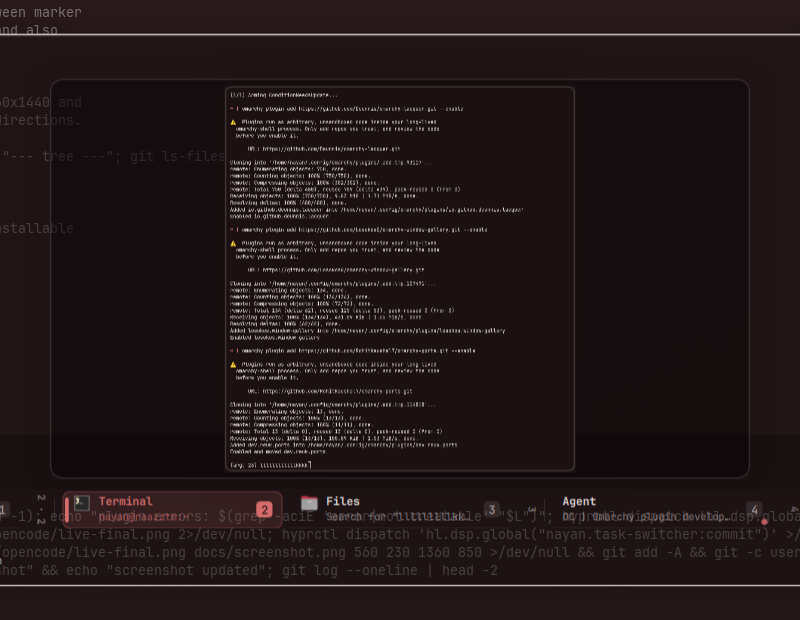
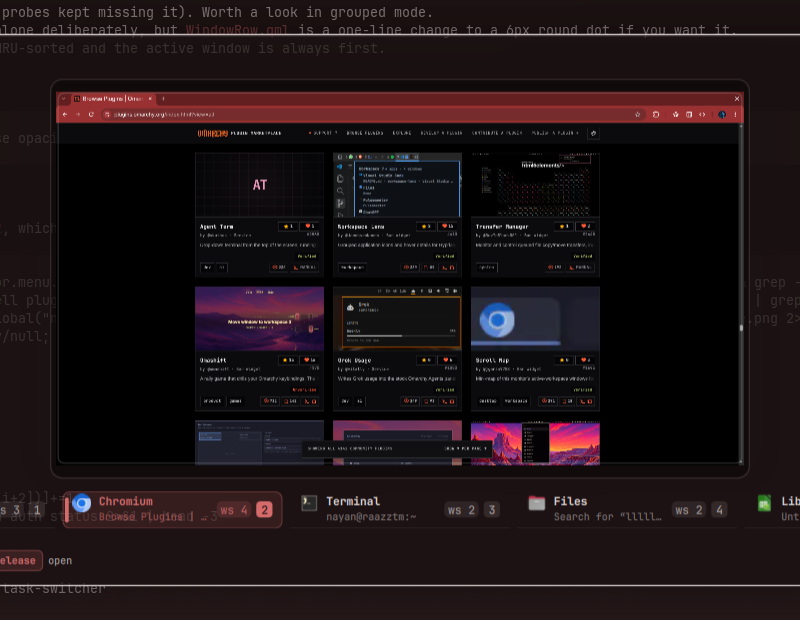
Raise panel opacity 30%: menu background alpha 0.55 -> 0.72

diff --git a/plugin/SwitcherView.qml b/plugin/SwitcherView.qml
@@ -205,7 +205,7 @@ Item {
         width: view.panelW
         height: view.panelH
         radius: Math.round(14 * view.uiScale)
-        color: Util.alpha(Color.menu.background, 0.55)
+        color: Util.alpha(Color.menu.background, 0.72)
         borderSpec: Border.surfaceSpec("menu", "border", Color.menu.border, 1)
 
         // Specular edge: the one cue that reads as glass rather than a
